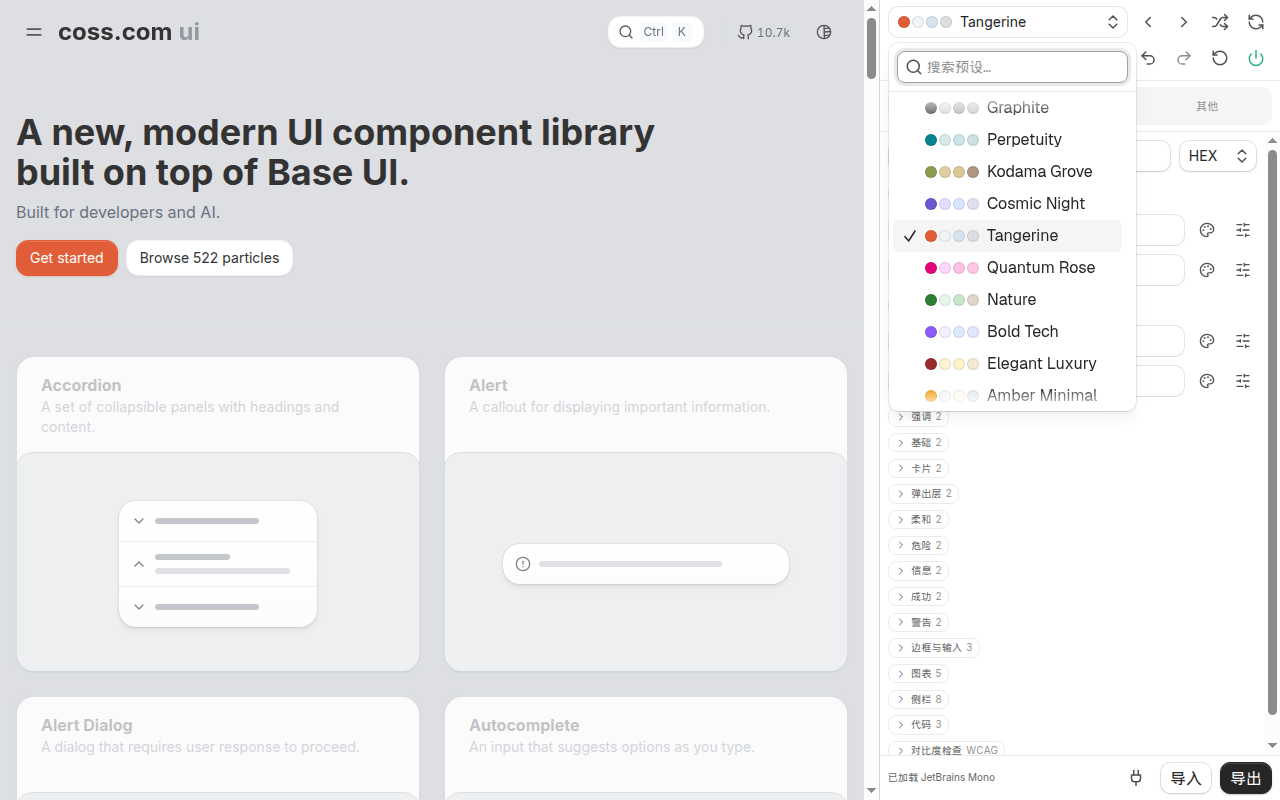
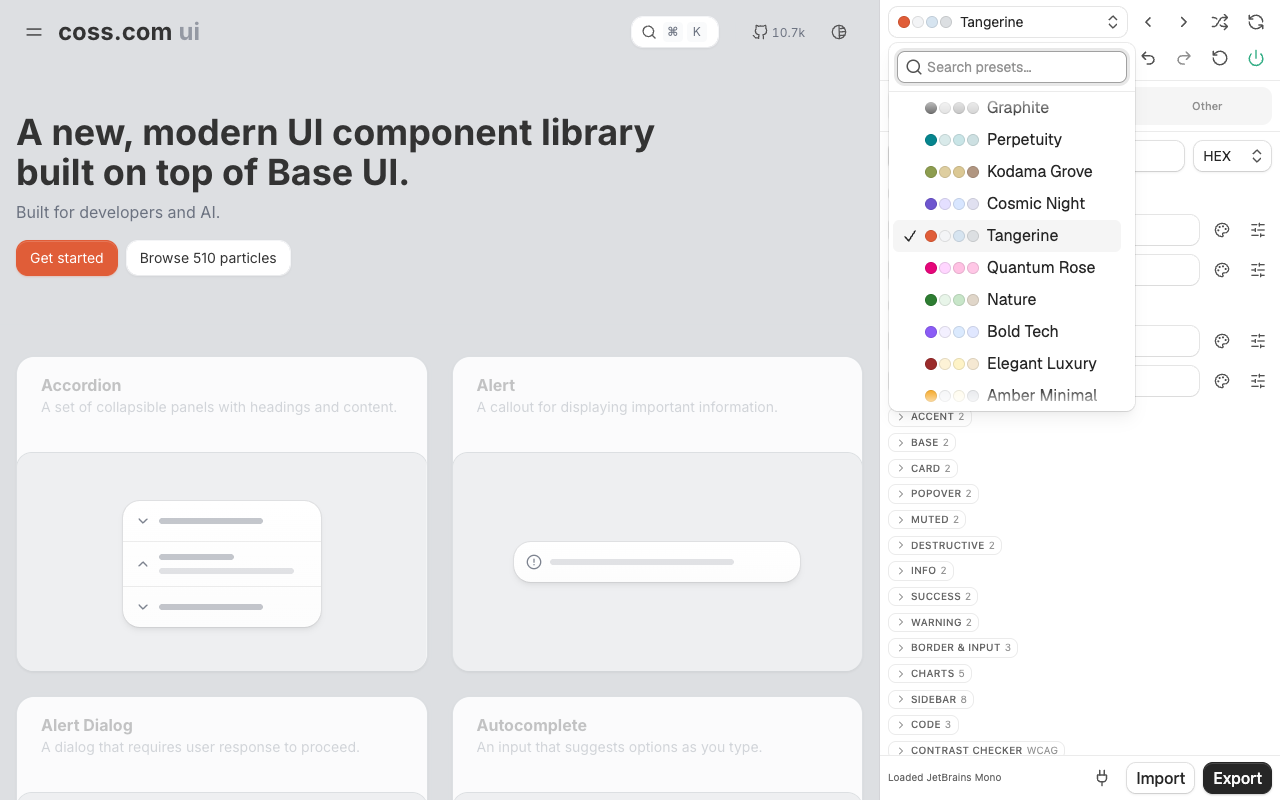
Revert "把令牌显示名和文档定义改成中文"
This reverts commit f81c0cf8a46603bc2c395ee1b66c4271ffb43b11.

diff --git a/apps/web/src/routes/index.tsx b/apps/web/src/routes/index.tsx
@@ -100,13 +100,13 @@ const ways = [
   {
     icon: CodeIcon,
     title: "在浏览器里",
-    body: "打开编辑器，给真实 coss ui 组件的图库换主题：卡片、仪表盘、邮件、营销页和应用页。不用安装。",
+    body: "打开 Editor，给真实 coss ui 组件的 Gallery 换主题：卡片、仪表盘、邮件、营销页和应用页。不用安装。",
     action: (
       <a
         href="/editor"
         className="inline-flex items-center gap-1 font-medium text-sm hover:underline"
       >
-        打开编辑器 <ArrowRightIcon className="size-4" />
+        打开 Editor <ArrowRightIcon className="size-4" />
       </a>
     ),
   },
@@ -122,8 +122,8 @@ const ways = [
   },
   {
     icon: PaletteIcon,
-    title: "在编辑器里预览你自己的应用",
-    body: "开发时加一个 script 标签，编辑器的「自定义」标签就会在控件旁边实时给你正在运行的应用换主题。",
+    title: "在 Editor 里预览你自己的应用",
+    body: "开发时加一个 script 标签，Editor 的「自定义」标签就会在控件旁边实时给你正在运行的应用换主题。",
     action: (
       <code className="rounded-md bg-muted px-1.5 py-0.5 font-mono text-xs">
         {`<script src="${site}/bridge.js">`}
@@ -169,7 +169,7 @@ const formats = [
   "Tailwind v4 · OKLCH",
   "Tailwind v3 · HSL",
   "shadcn 注册表 JSON",
-  "令牌 JSON",
+  "Token JSON",
   "tailwind.config.js",
   "Next.js 字体",
 ]
@@ -181,7 +181,7 @@ const faqs = [
   },
   {
     q: "主题存在哪里？",
-    a: "只在你的浏览器里。编辑器用本地存储，扩展用 Chrome 的扩展存储。不会发到服务器。",
+    a: "只在你的浏览器里。Editor 用本地存储，扩展用 Chrome 的扩展存储。不会发到服务器。",
   },
   {
     q: "只能用于 coss ui 吗？",
@@ -237,7 +237,7 @@ function Landing() {
             </a>
           </div>
           <Button size="sm" className="ml-auto" render={<a href="/editor" />}>
-            打开编辑器
+            打开 Editor
           </Button>
         </nav>
       </header>
@@ -258,7 +258,7 @@ function Landing() {
             </p>
             <div className="mt-8 flex flex-wrap gap-3">
               <Button size="lg" render={<a href="/editor" />}>
-                打开编辑器
+                打开 Editor
                 <ArrowRightIcon />
               </Button>
               <AddToChrome />
@@ -271,7 +271,7 @@ function Landing() {
           id="ways"
           eyebrow="怎么用"
           title="主题在哪，就在哪改"
-          lede="一个编辑器，三个地方都能用。Cossplay 只覆盖你改过的变量，其余仍跟着你的 CSS。"
+          lede="一个 Editor，三个地方都能用。Cossplay 只覆盖你改过的变量，其余仍跟着你的 CSS。"
         >
           <div className="grid gap-4 md:grid-cols-3">
             {ways.map((way) => (
@@ -292,7 +292,7 @@ function Landing() {
             src="/screenshot.webp"
             width="1280"
             height="800"
-            alt="用 Ocean Breeze 预设换过主题的 coss.com/ui；检查器显示 Get started 按钮用到的令牌，Cossplay 侧边栏打开了主色的通道滑杆"
+            alt="用 Ocean Breeze 预设换过主题的 coss.com/ui；检查器显示 Get started 按钮的 token，Cossplay 侧边栏打开了 Primary 的通道滑杆"
             className="mt-10 w-full rounded-2xl border shadow-xl/5"
             loading="lazy"
           />
@@ -365,7 +365,7 @@ function Landing() {
           </p>
           <div className="mt-8 flex flex-wrap justify-center gap-3">
             <Button size="lg" render={<a href="/editor" />}>
-              打开编辑器
+              打开 Editor
               <ArrowRightIcon />
             </Button>
             <AddToChrome />

diff --git a/apps/web/src/editor/custom.tsx b/apps/web/src/editor/custom.tsx
@@ -236,9 +236,9 @@ export function CustomPreview() {
         <div className="ui-chrome mx-auto flex w-full max-w-2xl flex-col gap-3 overflow-y-auto p-4 text-sm">
           <h2 className="font-semibold text-base">预览你自己的应用</h2>
           <p className="text-muted-foreground">
-            把 Cossplay
-            的桥接脚本加到应用里（只在开发环境即可），启动它，再在上面填
-            URL。之后编辑器会在你编辑时实时给它换主题。
+            把 Cossplay 的 Bridge
+            加到应用里（只在开发环境即可），启动它，再在上面填 URL。之后 Editor
+            会在你编辑时实时给它换主题。
           </p>
           <Setup />
         </div>
@@ -247,7 +247,7 @@ export function CustomPreview() {
           <div className="ui-chrome shrink-0">
             {status === "loading" && (
               <p className="flex items-center gap-2 text-muted-foreground text-xs">
-                <Spinner className="size-3.5" /> 正在连接桥接脚本…
+                <Spinner className="size-3.5" /> 正在连接 Bridge…
               </p>
             )}
             {status === "connected" && (
@@ -260,7 +260,7 @@ export function CustomPreview() {
               <Alert variant="warning">
                 <AlertTitle>已连接，但没有找到 coss ui</AlertTitle>
                 <AlertDescription>
-                  桥接脚本在运行，但这个页面没有声明 coss ui 的主题变量（例如
+                  Bridge 在运行，但这个页面没有声明 coss ui 的主题变量（例如
                   --background、--primary 和
                   --info），所以主题可能显示不出来。请装上 coss ui
                   的主题，然后重新加载。
@@ -269,11 +269,11 @@ export function CustomPreview() {
             )}
             {status === "missing" && (
               <Alert variant="error">
-                <AlertTitle>没有找到桥接脚本</AlertTitle>
+                <AlertTitle>没有找到 Bridge</AlertTitle>
                 <AlertDescription>
                   <p>
-                    {new URL(src).origin}{" "}
-                    没有回应。请把桥接脚本加到应用里并重新加载。禁止被嵌入的应用（X-Frame-Options
+                    {new URL(src).origin} 没有回应。请把 Bridge
+                    脚本加到应用里并重新加载。禁止被嵌入的应用（X-Frame-Options
                     或 frame-ancestors CSP）无法预览。
                   </p>
                   <Setup />

diff --git a/packages/editor/src/controls.tsx b/packages/editor/src/controls.tsx
@@ -27,63 +27,8 @@ import fonts from "./fonts.json"
 import { familyOf } from "./store"
 import tailwindColors from "./tailwind-colors.json"
 
-const tokenLabels: Record<string, string> = {
-  primary: "主色",
-  "primary-foreground": "主色前景",
-  secondary: "次色",
-  "secondary-foreground": "次色前景",
-  accent: "强调",
-  "accent-foreground": "强调前景",
-  background: "背景",
-  foreground: "前景",
-  card: "卡片",
-  "card-foreground": "卡片前景",
-  popover: "弹出层",
-  "popover-foreground": "弹出层前景",
-  muted: "柔和",
-  "muted-foreground": "柔和前景",
-  destructive: "危险",
-  "destructive-foreground": "危险前景",
-  info: "信息",
-  "info-foreground": "信息前景",
-  success: "成功",
-  "success-foreground": "成功前景",
-  warning: "警告",
-  "warning-foreground": "警告前景",
-  border: "边框",
-  input: "输入",
-  ring: "焦点环",
-  "chart-1": "图表 1",
-  "chart-2": "图表 2",
-  "chart-3": "图表 3",
-  "chart-4": "图表 4",
-  "chart-5": "图表 5",
-  sidebar: "侧栏",
-  "sidebar-foreground": "侧栏前景",
-  "sidebar-primary": "侧栏主色",
-  "sidebar-primary-foreground": "侧栏主色前景",
-  "sidebar-accent": "侧栏强调",
-  "sidebar-accent-foreground": "侧栏强调前景",
-  "sidebar-border": "侧栏边框",
-  "sidebar-ring": "侧栏焦点环",
-  code: "代码",
-  "code-foreground": "代码前景",
-  "code-highlight": "代码高亮",
-  "shadow-color": "阴影颜色",
-  "font-sans": "无衬线字体",
-  "font-serif": "衬线字体",
-  "font-mono": "等宽字体",
-  radius: "圆角",
-  spacing: "间距",
-  "letter-spacing": "字距",
-  "shadow-opacity": "阴影不透明度",
-  "shadow-blur": "阴影模糊",
-  "shadow-spread": "阴影扩展",
-  "shadow-offset-x": "阴影水平偏移",
-  "shadow-offset-y": "阴影垂直偏移",
-}
-/** 控件上给人看的名字。token 标识本身不变。 */
-export const title = (key: string) => tokenLabels[key] ?? key
+export const title = (key: string) =>
+  key.replaceAll("-", " ").replace(/\b\w/g, (c) => c.toUpperCase())
 
 const groupLabels: Record<string, string> = {
   Primary: "主色",

diff --git a/apps/web/src/routes/privacy.tsx b/apps/web/src/routes/privacy.tsx
@@ -63,10 +63,10 @@ function Privacy() {
           </p>
         </Part>
 
-        <Part title="网站和网页编辑器">
+        <Part title="网站和网页 Editor">
           <p>
-            cossplay.vercel.app
-            上的编辑器把主题存在浏览器的本地存储里。加载字体会向 Google Fonts
+            cossplay.vercel.app 上的 Editor
+            把主题存在浏览器的本地存储里。加载字体会向 Google Fonts
             请求样式表；从 URL 导入则会拉取该 URL。
           </p>
           <p>
@@ -74,8 +74,9 @@ function Privacy() {
             cookie，也不识别单个访客。
           </p>
           <p>
-            你可以加到自己应用里的桥接脚本，只在应用打开于编辑器的自定义预览时，与
-            Cossplay 编辑器交换主题 CSS。它不会把数据发到别处。
+            你可以加到自己应用里的 Bridge 脚本，只在应用打开于 Editor
+            的自定义预览时，与 Cossplay Editor 交换主题
+            CSS。它不会把数据发到别处。
           </p>
         </Part>
 

diff --git a/packages/core/src/coss/inspector.ts b/packages/core/src/coss/inspector.ts
@@ -57,7 +57,7 @@ export function startInspector(
   host.style.cssText =
     "all: initial; position: fixed; inset: 0; z-index: 2147483647; pointer-events: none;"
   const shadow = host.attachShadow({ mode: "open" })
-  shadow.innerHTML = `<style>${css}</style><div class="box"></div><div class="card" role="dialog" aria-label="主题令牌"></div>`
+  shadow.innerHTML = `<style>${css}</style><div class="box"></div><div class="card" role="dialog" aria-label="主题 token"></div>`
   const box = shadow.querySelector<HTMLElement>(".box")!
   const card = shadow.querySelector<HTMLElement>(".card")!
   document.documentElement.append(host)
@@ -90,7 +90,7 @@ export function startInspector(
     card.replaceChildren(
       Object.assign(document.createElement("div"), {
         className: "title",
-        textContent: "点击令牌即可编辑",
+        textContent: "点击 token 即可编辑",
       }),
       ...[...byToken].map(([token, names]) => {
         const button = document.createElement("button")

diff --git a/packages/editor/src/panel.tsx b/packages/editor/src/panel.tsx
@@ -60,8 +60,10 @@ import {
   groupLabel,
   NumericControl,
   Section,
-  title,
 } from "./controls"
+
+export { groupLabel }
+
 import { ExportDialog, ImportDialog, McpDialog } from "./dialogs"
 import { InspectToggle } from "./inspect"
 import {
@@ -78,8 +80,6 @@ import {
   usePanelStore,
   useTheme,
 } from "./store"
-
-export { groupLabel, title }
 
 const hslControls = [
   { key: "hue", label: "色相偏移", min: -180, max: 180, step: 1 },
@@ -404,7 +404,7 @@ export function PanelSections() {
   const search = usePanelStore((s) => s.search)
   const [issuesOnly, setIssuesOnly] = useState(false)
   const matches = (group: string, key: string) =>
-    `${groupLabel(group)} ${title(key)} ${group} ${key}`
+    `${groupLabel(group)} ${group} ${key}`
       .toLowerCase()
       .includes(search.toLowerCase())
   return (

diff --git a/apps/web/src/editor/palette.tsx b/apps/web/src/editor/palette.tsx
@@ -1,6 +1,6 @@
 import { defaults, groups } from "@cossplay/core/coss"
 import { focusControl } from "@cossplay/editor/inspect"
-import { groupLabel, title } from "@cossplay/editor/panel"
+import { groupLabel } from "@cossplay/editor/panel"
 import { usePanelStore, useTheme } from "@cossplay/editor/store"
 
 // 当前模式的每个颜色 token，分组同面板；色块跳到对应控件。
@@ -28,7 +28,7 @@ export function Palette() {
                   style={{ background: `var(--${token})` }}
                 />
                 <span className="block truncate px-2 pt-1.5 font-medium text-xs">
-                  {title(token)}
+                  {token}
                 </span>
                 <span className="block truncate px-2 pb-1.5 font-mono text-[10px] text-muted-foreground">
                   {theme[mode][token]}

diff --git a/apps/web/src/editor/marketing.tsx b/apps/web/src/editor/marketing.tsx
@@ -28,7 +28,7 @@ import {
 } from "lucide-react"
 import { Person } from "@/editor/cards"
 
-const logos = ["北风", "环球", "因泰", "保护伞", "胡力", "素伦"]
+const logos = ["Northwind", "Globex", "Initech", "Umbrella", "Hooli", "Soylent"]
 
 const features = [
   [GaugeIcon, "默认就快", "页面保持精简，一眨眼就加载完。"],
@@ -64,10 +64,10 @@ const plans = [
 const quotes = [
   [
     "朴丽娜",
-    "环球 技术负责人",
+    "Globex 技术负责人",
     "我们用 Acme 换掉了三个工具，发布节奏翻了一倍。",
   ],
-  ["马库斯", "胡力 创始人", "光是换主题，就给设计团队省了好几周。"],
+  ["马库斯", "Hooli 创始人", "光是换主题，就给设计团队省了好几周。"],
 ]
 
 const faqs = [

diff --git a/apps/web/src/components/particles/p-dialog-1.tsx b/apps/web/src/components/particles/p-dialog-1.tsx
@@ -29,11 +29,11 @@ export default function Particle() {
           <DialogPanel className="grid gap-4">
             <Field>
               <FieldLabel>姓名</FieldLabel>
-              <Input defaultValue="林薇" type="text" />
+              <Input defaultValue="Margaret Welsh" type="text" />
             </Field>
             <Field>
               <FieldLabel>用户名</FieldLabel>
-              <Input defaultValue="@lin.wei" type="text" />
+              <Input defaultValue="@maggie.welsh" type="text" />
             </Field>
           </DialogPanel>
           <DialogFooter>

diff --git a/packages/editor/src/dialogs.tsx b/packages/editor/src/dialogs.tsx
@@ -164,7 +164,7 @@ const exportTypes = {
   v4: { label: "Tailwind v4 · OKLCH CSS", file: "globals.css" },
   v3: { label: "Tailwind v3 · HSL CSS", file: "globals.css" },
   json: { label: "tweakcn / shadcn 注册表 JSON", file: "theme.json" },
-  raw: { label: "浅色 / 深色令牌 JSON", file: "tokens.json" },
+  raw: { label: "浅色 / 深色 token JSON", file: "tokens.json" },
   config: { label: "Tailwind v3 配置", file: "tailwind.config.js" },
   layout: { label: "Next.js 字体布局", file: "layout.tsx" },
 } as const

diff --git a/apps/extension/e2e/extension.spec.ts b/apps/extension/e2e/extension.spec.ts
@@ -226,7 +226,7 @@ test.describe("side panel", () => {
     const preset = await primary()
 
     await panel
-      .getByRole("button", { name: "主色 Tailwind 色板", exact: true })
+      .getByRole("button", { name: "Primary Tailwind 色板", exact: true })
       .click()
     const red = panel.getByRole("button", { name: "red-500", exact: true })
     // 色板要放得进面板。

diff --git a/packages/core/src/coss/theme.ts b/packages/core/src/coss/theme.ts
@@ -200,7 +200,7 @@ export function importOverrides(value: unknown): Overrides {
     !Object.keys(dark).length &&
     !Object.keys(shared).length
   )
-    throw Error("没有识别到 coss 主题令牌")
+    throw Error("没有识别到 coss 主题 token")
   const common = Object.fromEntries(
     Object.entries({ ...shared, ...light }).filter(([key]) =>
       isCommon(key as Token)
